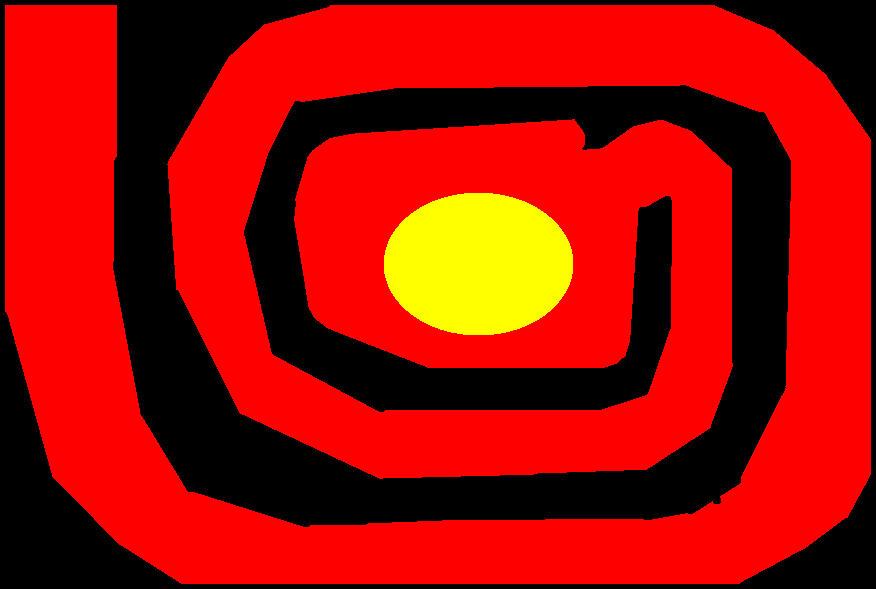
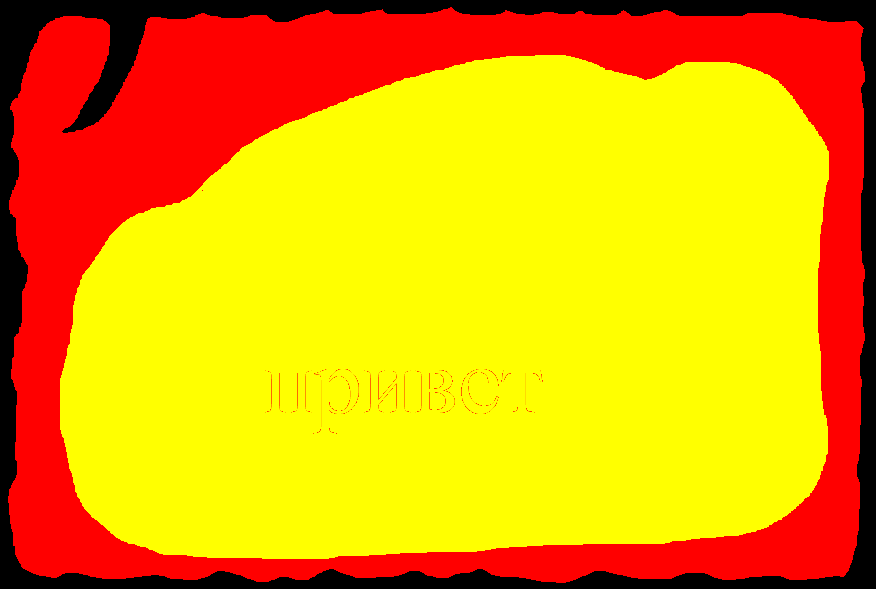
refactor dependencies

diff --git a/Anthill.py b/Anthill.py
@@ -41,7 +41,6 @@ class Anthill:
         width, height = self.size, self.size * self.App.window_size[0] / self.App.window_size[1]
         xPos, yPos = self.position
 
-        # fmt: off
         pos_data = np.array([
             xPos - width / 2.0, yPos + height / 2.0, 0.0,
             xPos - width / 2.0, yPos - height / 2.0, 0.0,

diff --git a/Pheromone.py b/Pheromone.py
@@ -1,6 +1,4 @@
 import moderngl as mgl
-import moderngl_window as mglw
-from moderngl_window import geometry
 from moderngl_window.opengl.vao import VAO
 
 from Mapp import Mapp

diff --git a/Mapp.py b/Mapp.py
@@ -1,4 +1,3 @@
-from moderngl_window import geometry
 import moderngl as mgl
 
 

diff --git a/ideas.md b/ideas.md
@@ -33,6 +33,12 @@ ants_transform_direction от времени
 - [ ] start 11:37 28.39  
 в синий канал записывать время
 
+- [ ] start 18:32 28.08  
+в дебаге задавать количество update на кадр
+
+- [ ] start 18:32 28.08  
+через время переключатся вместо поиска еды на поиск дома
+
 выполненные 
 
 - [x] start 13:35 26.08 end 16:56 26.08  
